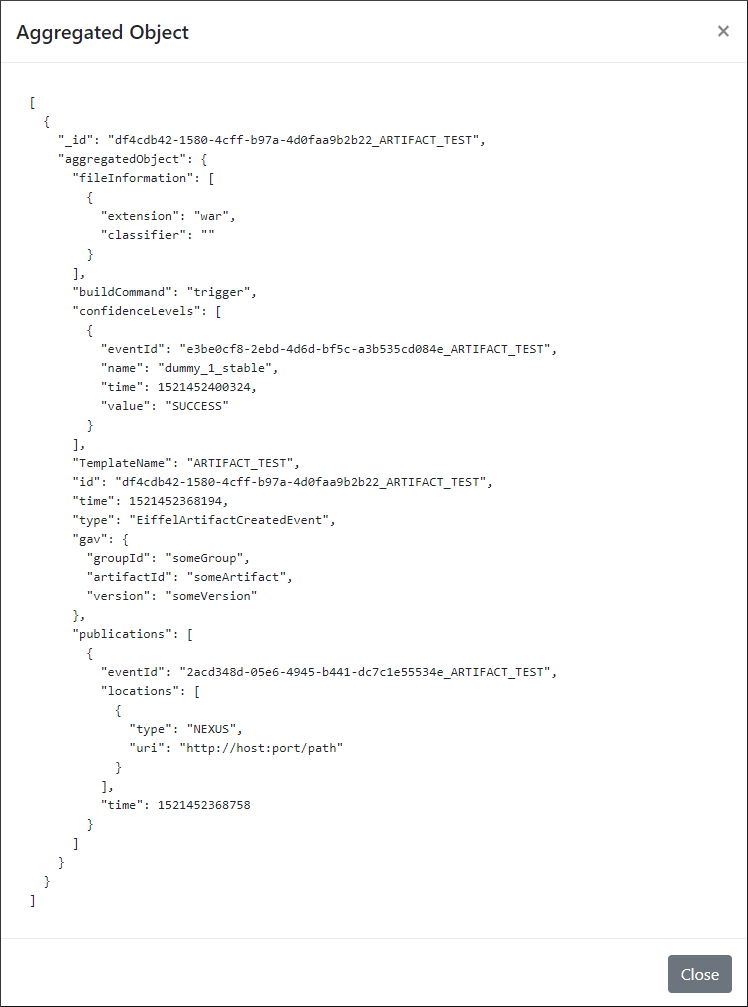
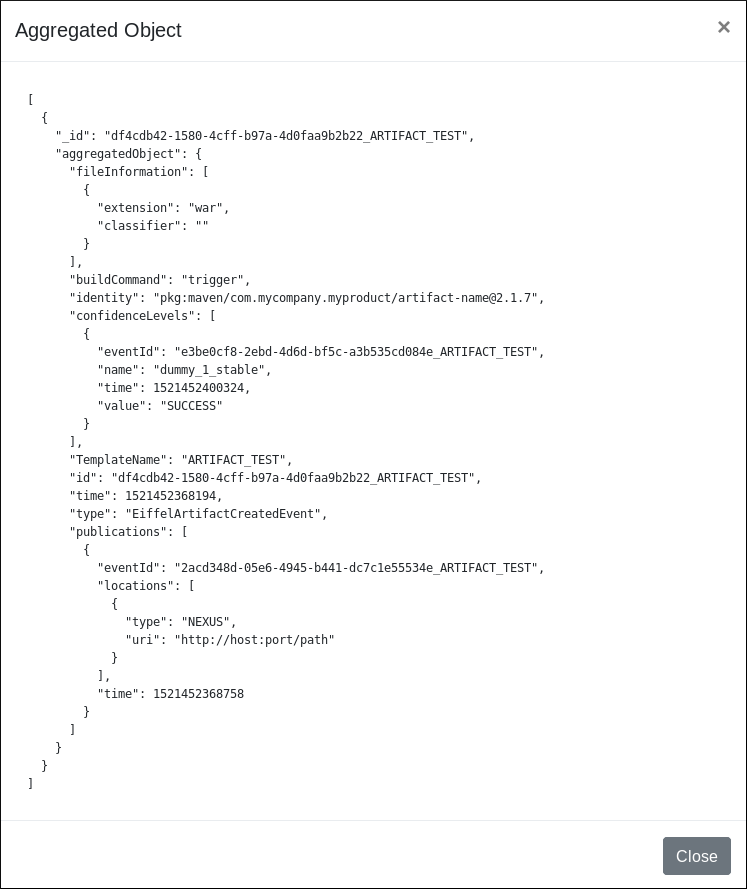
Agen update to documentation examples (#205)
* Update documentation

diff --git a/wiki/markdown/test-rules.md b/wiki/markdown/test-rules.md
@@ -62,10 +62,8 @@ contains 3 events.
         "IdRule": "meta.id",
         "StartEvent": "YES",
         "IdentifyRules": "[meta.id]",
-        "MatchIdRules": {
-          "_id": "%IdentifyRules_objid%"
-        },
-        "ExtractionRules": "{ id : meta.id, type : meta.type, time : meta.time, gav : data.gav, fileInformation : data.fileInformation, buildCommand : data.buildCommand }",
+        "MatchIdRules": {"_id": "%IdentifyRules_objid%"},
+        "ExtractionRules": "{ id : meta.id, type : meta.type, time : meta.time, identity : data.identity, fileInformation : data.fileInformation, buildCommand : data.buildCommand }",
         "DownstreamIdentifyRules": "links | [?type=='COMPOSITION'].target",
         "DownstreamMergeRules": "{\"externalComposition\":{\"eventId\":%IdentifyRules%}}",
         "DownstreamExtractionRules": "{artifacts: [{id : meta.id}]}",
@@ -127,11 +125,7 @@ contains 3 events.
             "domainId": "someDomain",
             "host": "someHost",
             "name": "someName",
-            "serializer": {
-              "groupId": "com.github.Ericsson",
-              "artifactId": "eiffel-remrem-semantics",
-              "version": "0.0.10"
-            },
+            "serializer": "pkg:maven/com.mycompany.tools/eiffel-serializer@1.0.3",
             "uri": "http://host:port/path"
           },
           "security": {
@@ -142,11 +136,7 @@ contains 3 events.
           }
         },
         "data": {
-          "gav": {
-            "groupId": "someGroup",
-            "artifactId": "someArtifact",
-            "version": "someVersion"
-          },
+          "identity": "pkg:maven/com.mycompany.myproduct/artifact-name@2.1.7",
           "fileInformation": [
             {
               "classifier": "",
@@ -155,13 +145,7 @@ contains 3 events.
           ],
           "buildCommand": "trigger",
           "requiresImplementation": "NONE",
-          "dependsOn": [
-            {
-              "groupId": "",
-              "artifactId": "",
-              "version": ""
-            }
-          ],
+          "dependsOn": ["pkg:maven/com.mycompany.myproduct/my-interface@%5B1.0%2C2.0%29"],
           "implements": [],
           "name": "event",
           "customData": []
@@ -184,11 +168,7 @@ contains 3 events.
             "domainId": "someDomain",
             "host": "someHost",
             "name": "someName",
-            "serializer": {
-              "groupId": "com.github.Ericsson",
-              "artifactId": "eiffel-remrem-semantics",
-              "version": "0.0.10"
-            },
+            "serializer": "pkg:maven/com.mycompany.tools/eiffel-serializer@1.0.3",
             "uri": "http://host:port/path"
           },
           "security": {
@@ -226,11 +206,7 @@ contains 3 events.
           "source": {
             "domainId": "someDomain",
             "name": "someName",
-            "serializer": {
-              "groupId": "com.github.Ericsson",
-              "artifactId": "eiffel-remrem-semantics",
-              "version": "0.0.10"
-            }
+            "serializer": "pkg:maven/com.mycompany.tools/eiffel-serializer@1.0.3"
           }
         },
         "data": {

diff --git a/wiki/markdown/curl-examples.md b/wiki/markdown/curl-examples.md
@@ -374,7 +374,7 @@ The back-end used is running on localhost and port 8080. EI front-end forwards t
                 {
                     "conditions":[
                         {
-                            "jmespath":"gav.groupId=='com.othercompany.library'"
+                            "jmespath":"identity=='pkg:maven/com.mycompany.myproduct/artifact-name@1.0.0'"
                         }
                     ]
                 }
@@ -406,7 +406,7 @@ The back-end used is running on localhost and port 8080. EI front-end forwards t
                 {
                     "conditions":[
                         {
-                            "jmespath":"gav.groupId=='com.othercompany.library'"
+                            "jmespath":"identity=='pkg:maven/com.mycompany.myproduct/artifact-name@1.0.0'"
                         }
                     ]
                 }
@@ -437,7 +437,7 @@ The back-end used is running on localhost and port 8080. EI front-end forwards t
                 {
                     "conditions":[
                         {
-                            "jmespath":"gav.groupId=='com.othercompany.library'"
+                            "jmespath":"identity=='pkg:maven/com.mycompany.myproduct/artifact-name@1.0.0'"
                         }
                     ]
                 }
